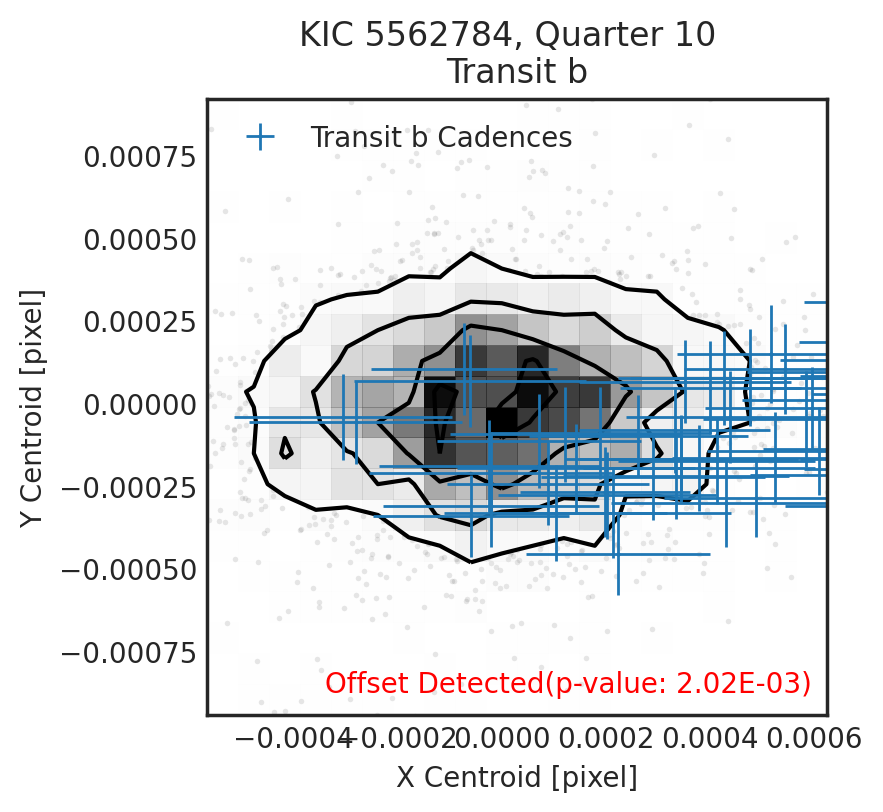
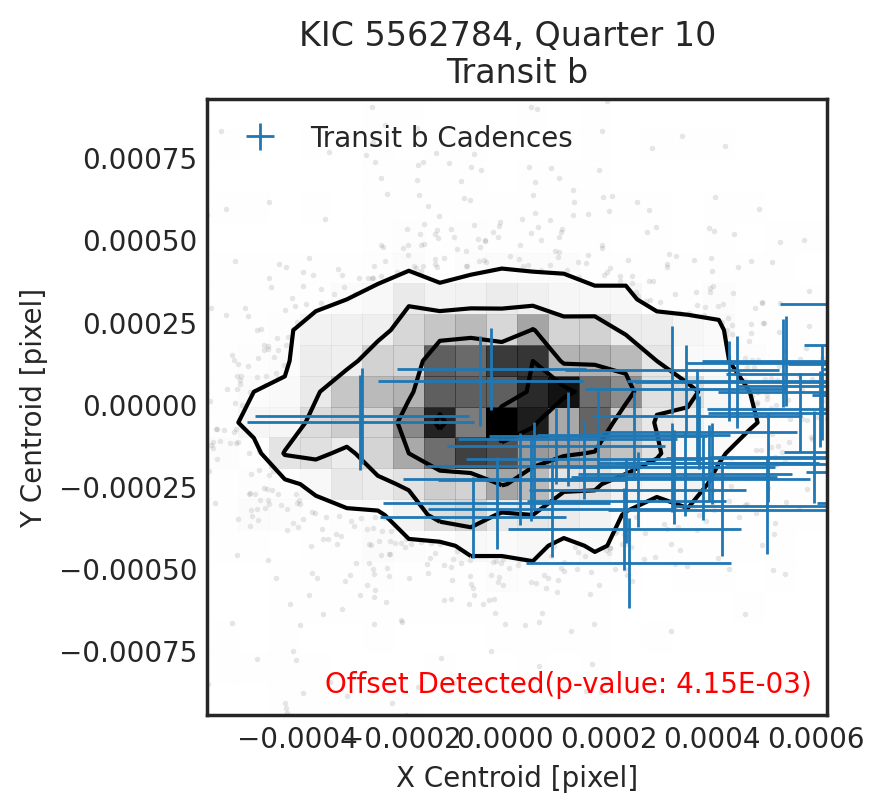
:memo: updating docs

diff --git a/src/vetting/centroiding.py b/src/vetting/centroiding.py
@@ -1,11 +1,10 @@
-import numpy as np
-import matplotlib.pyplot as plt
-from astropy.convolution import convolve, Gaussian1DKernel
 import astropy.units as u
-import lightkurve as lk
-
-from scipy.stats import ttest_ind
 import corner
+import lightkurve as lk
+import matplotlib.pyplot as plt
+import numpy as np
+from astropy.convolution import Gaussian1DKernel, convolve
+from scipy.stats import ttest_ind
 
 
 def _label(tpf):
@@ -81,8 +80,8 @@ def centroid_test(
         r : dict
             Dictionary of results, containing 'figs' (a list of matplotlib figures) and 'pvalues', which is a list of tuples.
             Each tuple contains the p-value for the input planets. There are as many tuples as input TPFs.
-
     """
+
     if isinstance(tpfs, lk.targetpixelfile.TargetPixelFile):
         tpfs = [tpfs]
     if isinstance(tpfs, lk.collections.TargetPixelFileCollection):
@@ -118,7 +117,6 @@ def centroid_test(
         for key in ["1sigma_error"]:
             r[key] = []
 
-    offsets = np.logspace(-6, np.log10(3), 100)[::-1]
     for tpf in tpfs:
         if tpf.mission.lower() in ["kepler", "ktwo", "k2"]:
             pixel_scale = 4
@@ -133,7 +131,8 @@ def centroid_test(
         if crwd is not None:
             if crwd < 0.8:
                 raise ValueError(
-                    f"Aperture is significantly crowded (CROWDSAP = {crwd}). This method will not work to centroid these cases."
+                    f"Aperture is significantly crowded (CROWDSAP = {crwd}). "
+                    "This method will not work to centroid these cases."
                 )
 
         aper = tpf._parse_aperture_mask(aperture_mask)
@@ -167,7 +166,6 @@ def centroid_test(
         ycent = np.average(Y, weights=fe, axis=1)
         xcent = np.asarray([np.nanmean(xcent, axis=1), np.nanstd(xcent, axis=1)]).T
         ycent = np.asarray([np.nanmean(ycent, axis=1), np.nanstd(ycent, axis=1)]).T
-        import pdb
 
         # If the mission is K2, we need to use SFF to detrend the centroids.
         if tpf.mission.lower() in ["ktwo", "k2"]:
@@ -266,13 +264,23 @@ def centroid_test(
                 with plt.style.context("seaborn-white"):
                     xc1 = (xcent[:, 0][k1] - xtr[k1]) * scale
                     yc1 = (ycent[:, 0][k1] - ytr[k1]) * scale
+
+                    xrange = np.nanpercentile(xc1, (1, 99))
+                    dx = np.diff(xrange) / 100
+                    xrange[0] -= dx * 15
+                    xrange[1] += dx * 15
+                    yrange = np.nanpercentile(yc1, (1, 99))
+                    dy = np.diff(yrange) / 100
+                    yrange[0] -= dy * 15
+                    yrange[1] += dy * 15
+
                     corner.hist2d(
                         xc1,
                         yc1,
                         ax=axs[idx],
                         range=[
-                            np.nanpercentile(xc1, (1, 99)),
-                            np.nanpercentile(yc1, (1, 99)),
+                            xrange,
+                            yrange,
                         ],
                     )
                     axs[idx].errorbar(
@@ -283,7 +291,7 @@ def centroid_test(
                         marker=".",
                         markersize=1,
                         c=f"C{idx}",
-                        lw=1,
+                        lw=0.5,
                         ls="",
                         label=f"Transit {labels[idx]} Cadences",
                     )
@@ -304,10 +312,7 @@ def centroid_test(
                 a2 = weighted_average(xcent[k2, 0] - xtr[k2], 1 / xcent[k2, 1])
                 b2 = weighted_average(ycent[k2, 0] - ytr[k2], 1 / ycent[k2, 1])
                 pos_err = np.hypot(np.hypot(a1[1], b1[1]), np.hypot(a2[1], b2[1]))
-
-            if transit_depths is not None:
                 sigma1.append(pixel_scale * pos_err / transit_depths[idx])
-
             if k2.sum() == 0:
                 pvalue = 1
             else:

diff --git a/tests/test_centroids.py b/tests/test_centroids.py
@@ -1,17 +1,27 @@
-import pytest
 import os
-import matplotlib.pyplot as plt
 
 import lightkurve as lk
-from vetting import centroid_test
+import matplotlib.pyplot as plt
+import pytest
+import numpy as np
 
-lib_path = os.getcwd()
-tpf = lk.KeplerTargetPixelFile(
-    f"{lib_path}/tests/data/kplr005562784-2011271113734_lpd-targ.fits.gz"
-)
+from vetting import centroid_test
+from vetting import PACKAGEDIR
+
+testdir = "/".join(PACKAGEDIR.split("/")[:-2])
+
+
+def is_action():
+    try:
+        return os.environ["GITHUB_ACTIONS"]
+    except KeyError:
+        return False
 
 
 def test_centroid_test():
+    tpf = lk.KeplerTargetPixelFile(
+        f"{testdir}/tests/data/kplr005562784-2011271113734_lpd-targ.fits.gz"
+    )
     period, t0, dur = 25.3368592, 192.91552, 8.85 / 24
     r = centroid_test(tpf, period, t0, dur, aperture_mask="pipeline", plot=False)
     assert r["pvalues"][0][0] < 0.01
@@ -19,7 +29,7 @@ def test_centroid_test():
 
     r = centroid_test(tpf, period, t0, dur, aperture_mask="pipeline", plot=True)
     assert len(r["figs"]) == 1
-    r["figs"][0].savefig(f"{lib_path}/demo.png", dpi=200, bbox_inches="tight")
+    r["figs"][0].savefig(f"{PACKAGEDIR}/demo.png", dpi=200, bbox_inches="tight")
 
     r = centroid_test(
         tpf,
@@ -70,3 +80,73 @@ def test_centroid_test():
         transit_depths=0.001499,
         labels="c",
     )
+
+
+@pytest.mark.skipif(
+    is_action(),
+    reason="Can not run on GitHub actions, because it's a pain to download.",
+)
+def test_FPs():
+    """Produce some figures that show centroid offsets"""
+    names = [
+        "KIC 5391911",
+        "KIC 5866724",
+        "EPIC 220256496",
+        "EPIC 210957318",
+        "TIC 293435336",
+        "TIC 13023738",
+    ]
+    kwargs = [
+        {"quarter": 3},
+        {"quarter": 3},
+        {"campaign": 8},
+        {"campaign": 4},
+        {},
+        {"sector": 2},
+    ]
+
+    periods = [0.782068488, 2.154911236, 0.669558, 4.098503000, 1.809886, 8.0635]
+    t0s = [
+        131.8940201,
+        133.498613,
+        2457393.81364 - 2454833,
+        2457063.80710000 - 2454833,
+        2456107.85507 - 2457000,
+        2459104.87232 - 2457000,
+    ]
+    durs = np.asarray([1.239, 3.1341, 1, 2.3208, 3.694, 3.396]) / 24
+    depths = [
+        0.01157 * 0.01,
+        0.00850 * 0.01,
+        0.015450 ** 2,
+        1.603 * 0.01,
+        1.189 * 0.01,
+        5180 * 1e-6,
+    ]
+
+    for name, period, t0, dur, kwarg, depth in zip(
+        names, periods, t0s, durs, kwargs, depths
+    ):
+        tpf = lk.search_targetpixelfile(name, **kwarg).download()
+        r = centroid_test(
+            tpf,
+            period,
+            t0,
+            dur,
+            aperture_mask="pipeline",
+            plot=True,
+            transit_depths=depth,
+        )
+        r["figs"][0].savefig(
+            f"{testdir}/docs/{name.replace(' ','').lower()}.png",
+            dpi=200,
+            bbox_inches="tight",
+        )
+        # nb = int(1 // np.median(np.diff(tpf.time.value)))
+        # nb = [nb if nb % 2 == 1 else nb + 1][0]
+        # ax = tpf.to_lightcurve().flatten(nb).fold(period, t0).bin(period / 200).plot()
+        # plt.savefig(
+        #     f"{testdir}/docs/{name.replace(' ','').lower()}_lc.png",
+        #     dpi=200,
+        #     bbox_inches="tight",
+        # )

diff --git a/src/vetting/__init__.py b/src/vetting/__init__.py
@@ -1,7 +1,10 @@
 #!/usr/bin/env python
 # -*- coding: utf-8 -*-
 from __future__ import absolute_import
+import os
 
 from .centroiding import centroid_test
+
+PACKAGEDIR = os.path.abspath(os.path.dirname(__file__))
 
 __all__ = ["centroid_test"]

diff --git a/src/vetting/version.py b/src/vetting/version.py
@@ -1,3 +1,3 @@
 # It is important to store the version number in a separate file
 # so that we can read it from setup.py without importing the package
-__version__ = "0.1.8"
+__version__ = "0.1.9"
